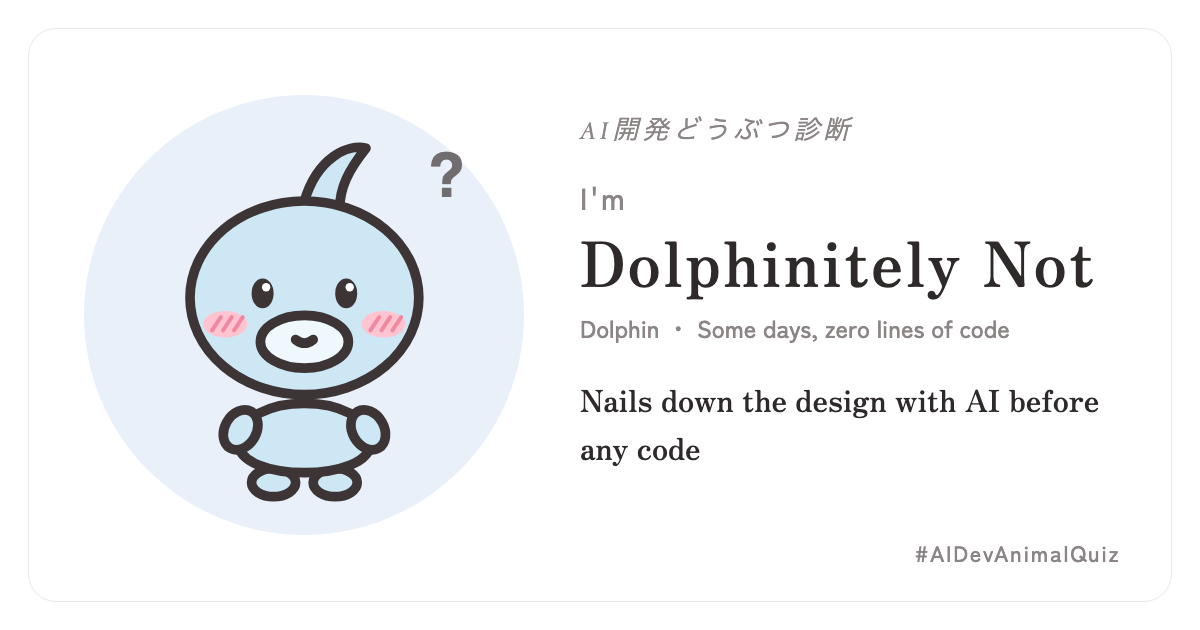
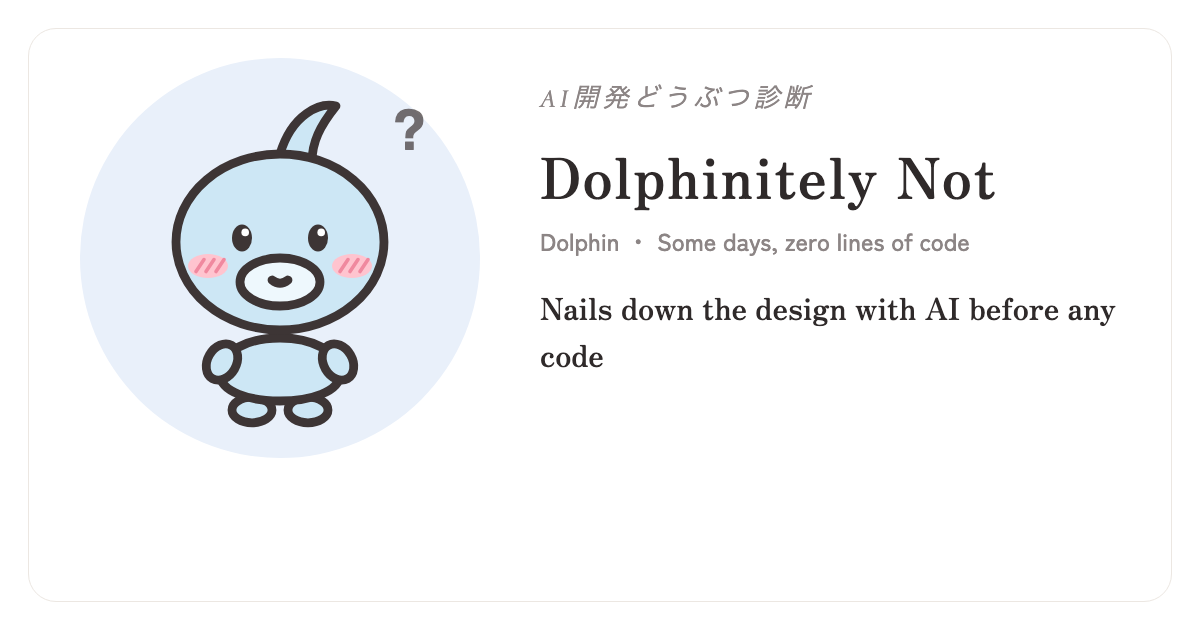
シェアは画像添付にし、カード画像から「わたしは」を外す

diff --git a/r/earth-steady.html b/r/earth-steady.html
@@ -5,20 +5,20 @@
 <meta name="viewport" content="width=device-width,initial-scale=1,viewport-fit=cover">
 <meta name="description" content="AIに書かせるほど、テストを厚くする。あなたは12匹のどの子？">
 <meta property="og:type" content="website">
-<meta property="og:title" content="わたしは「ダブルチェックマ」でした｜AI開発どうぶつ診断">
+<meta property="og:title" content="ダブルチェックマ｜AI開発どうぶつ診断">
 <meta property="og:description" content="AIに書かせるほど、テストを厚くする。あなたは12匹のどの子？">
 <meta property="og:image" content="https://ally-ak.github.io/ai-dev-animal/og/earth-steady-ja.png">
 <meta property="og:image:width" content="1200">
 <meta property="og:image:height" content="630">
 <meta property="og:url" content="https://ally-ak.github.io/ai-dev-animal/r/earth-steady.html">
 <meta name="twitter:card" content="summary_large_image">
-<meta name="twitter:title" content="わたしは「ダブルチェックマ」でした｜AI開発どうぶつ診断">
+<meta name="twitter:title" content="ダブルチェックマ｜AI開発どうぶつ診断">
 <meta name="twitter:description" content="AIに書かせるほど、テストを厚くする。あなたは12匹のどの子？">
 <meta name="twitter:image" content="https://ally-ak.github.io/ai-dev-animal/og/earth-steady-ja.png">
-<title>わたしは「ダブルチェックマ」でした｜AI開発どうぶつ診断</title>
+<title>ダブルチェックマ｜AI開発どうぶつ診断</title>
 <meta http-equiv="refresh" content="0; url=../?from=earth-steady&lang=ja">
 </head>
 <body>
-<p><a href="../?from=earth-steady&lang=ja">わたしは「ダブルチェックマ」でした｜AI開発どうぶつ診断</a></p>
+<p><a href="../?from=earth-steady&lang=ja">ダブルチェックマ｜AI開発どうぶつ診断</a></p>
 </body>
 </html>

diff --git a/r/water-pioneer.html b/r/water-pioneer.html
@@ -5,20 +5,20 @@
 <meta name="viewport" content="width=device-width,initial-scale=1,viewport-fit=cover">
 <meta name="description" content="モデルごとの「人柄」を味わって、乗り換える。あなたは12匹のどの子？">
 <meta property="og:type" content="website">
-<meta property="og:title" content="わたしは「モデルカエル」でした｜AI開発どうぶつ診断">
+<meta property="og:title" content="モデルカエル｜AI開発どうぶつ診断">
 <meta property="og:description" content="モデルごとの「人柄」を味わって、乗り換える。あなたは12匹のどの子？">
 <meta property="og:image" content="https://ally-ak.github.io/ai-dev-animal/og/water-pioneer-ja.png">
 <meta property="og:image:width" content="1200">
 <meta property="og:image:height" content="630">
 <meta property="og:url" content="https://ally-ak.github.io/ai-dev-animal/r/water-pioneer.html">
 <meta name="twitter:card" content="summary_large_image">
-<meta name="twitter:title" content="わたしは「モデルカエル」でした｜AI開発どうぶつ診断">
+<meta name="twitter:title" content="モデルカエル｜AI開発どうぶつ診断">
 <meta name="twitter:description" content="モデルごとの「人柄」を味わって、乗り換える。あなたは12匹のどの子？">
 <meta name="twitter:image" content="https://ally-ak.github.io/ai-dev-animal/og/water-pioneer-ja.png">
-<title>わたしは「モデルカエル」でした｜AI開発どうぶつ診断</title>
+<title>モデルカエル｜AI開発どうぶつ診断</title>
 <meta http-equiv="refresh" content="0; url=../?from=water-pioneer&lang=ja">
 </head>
 <body>
-<p><a href="../?from=water-pioneer&lang=ja">わたしは「モデルカエル」でした｜AI開発どうぶつ診断</a></p>
+<p><a href="../?from=water-pioneer&lang=ja">モデルカエル｜AI開発どうぶつ診断</a></p>
 </body>
 </html>

diff --git a/r/air-flex.html b/r/air-flex.html
@@ -5,20 +5,20 @@
 <meta name="viewport" content="width=device-width,initial-scale=1,viewport-fit=cover">
 <meta name="description" content="調べものはエージェントに、つなぐのは自分で。あなたは12匹のどの子？">
 <meta property="og:type" content="website">
-<meta property="og:title" content="わたしは「ネホリハホリス」でした｜AI開発どうぶつ診断">
+<meta property="og:title" content="ネホリハホリス｜AI開発どうぶつ診断">
 <meta property="og:description" content="調べものはエージェントに、つなぐのは自分で。あなたは12匹のどの子？">
 <meta property="og:image" content="https://ally-ak.github.io/ai-dev-animal/og/air-flex-ja.png">
 <meta property="og:image:width" content="1200">
 <meta property="og:image:height" content="630">
 <meta property="og:url" content="https://ally-ak.github.io/ai-dev-animal/r/air-flex.html">
 <meta name="twitter:card" content="summary_large_image">
-<meta name="twitter:title" content="わたしは「ネホリハホリス」でした｜AI開発どうぶつ診断">
+<meta name="twitter:title" content="ネホリハホリス｜AI開発どうぶつ診断">
 <meta name="twitter:description" content="調べものはエージェントに、つなぐのは自分で。あなたは12匹のどの子？">
 <meta name="twitter:image" content="https://ally-ak.github.io/ai-dev-animal/og/air-flex-ja.png">
-<title>わたしは「ネホリハホリス」でした｜AI開発どうぶつ診断</title>
+<title>ネホリハホリス｜AI開発どうぶつ診断</title>
 <meta http-equiv="refresh" content="0; url=../?from=air-flex&lang=ja">
 </head>
 <body>
-<p><a href="../?from=air-flex&lang=ja">わたしは「ネホリハホリス」でした｜AI開発どうぶつ診断</a></p>
+<p><a href="../?from=air-flex&lang=ja">ネホリハホリス｜AI開発どうぶつ診断</a></p>
 </body>
 </html>

diff --git a/r/fire-pioneer.html b/r/fire-pioneer.html
@@ -5,20 +5,20 @@
 <meta name="viewport" content="width=device-width,initial-scale=1,viewport-fit=cover">
 <meta name="description" content="新しいモデルは、出たその日に本番タスクで試す。あなたは12匹のどの子？">
 <meta property="og:type" content="website">
-<meta property="og:title" content="わたしは「トリアエズ」でした｜AI開発どうぶつ診断">
+<meta property="og:title" content="トリアエズ｜AI開発どうぶつ診断">
 <meta property="og:description" content="新しいモデルは、出たその日に本番タスクで試す。あなたは12匹のどの子？">
 <meta property="og:image" content="https://ally-ak.github.io/ai-dev-animal/og/fire-pioneer-ja.png">
 <meta property="og:image:width" content="1200">
 <meta property="og:image:height" content="630">
 <meta property="og:url" content="https://ally-ak.github.io/ai-dev-animal/r/fire-pioneer.html">
 <meta name="twitter:card" content="summary_large_image">
-<meta name="twitter:title" content="わたしは「トリアエズ」でした｜AI開発どうぶつ診断">
+<meta name="twitter:title" content="トリアエズ｜AI開発どうぶつ診断">
 <meta name="twitter:description" content="新しいモデルは、出たその日に本番タスクで試す。あなたは12匹のどの子？">
 <meta name="twitter:image" content="https://ally-ak.github.io/ai-dev-animal/og/fire-pioneer-ja.png">
-<title>わたしは「トリアエズ」でした｜AI開発どうぶつ診断</title>
+<title>トリアエズ｜AI開発どうぶつ診断</title>
 <meta http-equiv="refresh" content="0; url=../?from=fire-pioneer&lang=ja">
 </head>
 <body>
-<p><a href="../?from=fire-pioneer&lang=ja">わたしは「トリアエズ」でした｜AI開発どうぶつ診断</a></p>
+<p><a href="../?from=fire-pioneer&lang=ja">トリアエズ｜AI開発どうぶつ診断</a></p>
 </body>
 </html>

diff --git a/r/air-pioneer.html b/r/air-pioneer.html
@@ -5,20 +5,20 @@
 <meta name="viewport" content="width=device-width,initial-scale=1,viewport-fit=cover">
 <meta name="description" content="思いついたら、その場でプロトタイプ。あなたは12匹のどの子？">
 <meta property="og:type" content="website">
-<meta property="og:title" content="わたしは「ツクルダゾウ」でした｜AI開発どうぶつ診断">
+<meta property="og:title" content="ツクルダゾウ｜AI開発どうぶつ診断">
 <meta property="og:description" content="思いついたら、その場でプロトタイプ。あなたは12匹のどの子？">
 <meta property="og:image" content="https://ally-ak.github.io/ai-dev-animal/og/air-pioneer-ja.png">
 <meta property="og:image:width" content="1200">
 <meta property="og:image:height" content="630">
 <meta property="og:url" content="https://ally-ak.github.io/ai-dev-animal/r/air-pioneer.html">
 <meta name="twitter:card" content="summary_large_image">
-<meta name="twitter:title" content="わたしは「ツクルダゾウ」でした｜AI開発どうぶつ診断">
+<meta name="twitter:title" content="ツクルダゾウ｜AI開発どうぶつ診断">
 <meta name="twitter:description" content="思いついたら、その場でプロトタイプ。あなたは12匹のどの子？">
 <meta name="twitter:image" content="https://ally-ak.github.io/ai-dev-animal/og/air-pioneer-ja.png">
-<title>わたしは「ツクルダゾウ」でした｜AI開発どうぶつ診断</title>
+<title>ツクルダゾウ｜AI開発どうぶつ診断</title>
 <meta http-equiv="refresh" content="0; url=../?from=air-pioneer&lang=ja">
 </head>
 <body>
-<p><a href="../?from=air-pioneer&lang=ja">わたしは「ツクルダゾウ」でした｜AI開発どうぶつ診断</a></p>
+<p><a href="../?from=air-pioneer&lang=ja">ツクルダゾウ｜AI開発どうぶつ診断</a></p>
 </body>
 </html>

diff --git a/r/earth-pioneer.html b/r/earth-pioneer.html
@@ -5,20 +5,20 @@
 <meta name="viewport" content="width=device-width,initial-scale=1,viewport-fit=cover">
 <meta name="description" content="新しいモデルは、まず自分の意地悪問題で試す。あなたは12匹のどの子？">
 <meta property="og:type" content="website">
-<meta property="og:title" content="わたしは「バグカモ」でした｜AI開発どうぶつ診断">
+<meta property="og:title" content="バグカモ｜AI開発どうぶつ診断">
 <meta property="og:description" content="新しいモデルは、まず自分の意地悪問題で試す。あなたは12匹のどの子？">
 <meta property="og:image" content="https://ally-ak.github.io/ai-dev-animal/og/earth-pioneer-ja.png">
 <meta property="og:image:width" content="1200">
 <meta property="og:image:height" content="630">
 <meta property="og:url" content="https://ally-ak.github.io/ai-dev-animal/r/earth-pioneer.html">
 <meta name="twitter:card" content="summary_large_image">
-<meta name="twitter:title" content="わたしは「バグカモ」でした｜AI開発どうぶつ診断">
+<meta name="twitter:title" content="バグカモ｜AI開発どうぶつ診断">
 <meta name="twitter:description" content="新しいモデルは、まず自分の意地悪問題で試す。あなたは12匹のどの子？">
 <meta name="twitter:image" content="https://ally-ak.github.io/ai-dev-animal/og/earth-pioneer-ja.png">
-<title>わたしは「バグカモ」でした｜AI開発どうぶつ診断</title>
+<title>バグカモ｜AI開発どうぶつ診断</title>
 <meta http-equiv="refresh" content="0; url=../?from=earth-pioneer&lang=ja">
 </head>
 <body>
-<p><a href="../?from=earth-pioneer&lang=ja">わたしは「バグカモ」でした｜AI開発どうぶつ診断</a></p>
+<p><a href="../?from=earth-pioneer&lang=ja">バグカモ｜AI開発どうぶつ診断</a></p>
 </body>
 </html>

diff --git a/r/water-steady.html b/r/water-steady.html
@@ -5,20 +5,20 @@
 <meta name="viewport" content="width=device-width,initial-scale=1,viewport-fit=cover">
 <meta name="description" content="いつものAIと、しゃべりながらペアプロ。あなたは12匹のどの子？">
 <meta property="og:type" content="website">
-<meta property="og:title" content="わたしは「アリガトウ」でした｜AI開発どうぶつ診断">
+<meta property="og:title" content="アリガトウ｜AI開発どうぶつ診断">
 <meta property="og:description" content="いつものAIと、しゃべりながらペアプロ。あなたは12匹のどの子？">
 <meta property="og:image" content="https://ally-ak.github.io/ai-dev-animal/og/water-steady-ja.png">
 <meta property="og:image:width" content="1200">
 <meta property="og:image:height" content="630">
 <meta property="og:url" content="https://ally-ak.github.io/ai-dev-animal/r/water-steady.html">
 <meta name="twitter:card" content="summary_large_image">
-<meta name="twitter:title" content="わたしは「アリガトウ」でした｜AI開発どうぶつ診断">
+<meta name="twitter:title" content="アリガトウ｜AI開発どうぶつ診断">
 <meta name="twitter:description" content="いつものAIと、しゃべりながらペアプロ。あなたは12匹のどの子？">
 <meta name="twitter:image" content="https://ally-ak.github.io/ai-dev-animal/og/water-steady-ja.png">
-<title>わたしは「アリガトウ」でした｜AI開発どうぶつ診断</title>
+<title>アリガトウ｜AI開発どうぶつ診断</title>
 <meta http-equiv="refresh" content="0; url=../?from=water-steady&lang=ja">
 </head>
 <body>
-<p><a href="../?from=water-steady&lang=ja">わたしは「アリガトウ」でした｜AI開発どうぶつ診断</a></p>
+<p><a href="../?from=water-steady&lang=ja">アリガトウ｜AI開発どうぶつ診断</a></p>
 </body>
 </html>

diff --git a/r/water-flex.html b/r/water-flex.html
@@ -5,20 +5,20 @@
 <meta name="viewport" content="width=device-width,initial-scale=1,viewport-fit=cover">
 <meta name="description" content="その日の調子で、相棒を選んでおまかせ。あなたは12匹のどの子？">
 <meta property="og:type" content="website">
-<meta property="og:title" content="わたしは「オマカセミ」でした｜AI開発どうぶつ診断">
+<meta property="og:title" content="オマカセミ｜AI開発どうぶつ診断">
 <meta property="og:description" content="その日の調子で、相棒を選んでおまかせ。あなたは12匹のどの子？">
 <meta property="og:image" content="https://ally-ak.github.io/ai-dev-animal/og/water-flex-ja.png">
 <meta property="og:image:width" content="1200">
 <meta property="og:image:height" content="630">
 <meta property="og:url" content="https://ally-ak.github.io/ai-dev-animal/r/water-flex.html">
 <meta name="twitter:card" content="summary_large_image">
-<meta name="twitter:title" content="わたしは「オマカセミ」でした｜AI開発どうぶつ診断">
+<meta name="twitter:title" content="オマカセミ｜AI開発どうぶつ診断">
 <meta name="twitter:description" content="その日の調子で、相棒を選んでおまかせ。あなたは12匹のどの子？">
 <meta name="twitter:image" content="https://ally-ak.github.io/ai-dev-animal/og/water-flex-ja.png">
-<title>わたしは「オマカセミ」でした｜AI開発どうぶつ診断</title>
+<title>オマカセミ｜AI開発どうぶつ診断</title>
 <meta http-equiv="refresh" content="0; url=../?from=water-flex&lang=ja">
 </head>
 <body>
-<p><a href="../?from=water-flex&lang=ja">わたしは「オマカセミ」でした｜AI開発どうぶつ診断</a></p>
+<p><a href="../?from=water-flex&lang=ja">オマカセミ｜AI開発どうぶつ診断</a></p>
 </body>
 </html>

diff --git a/r/air-steady.html b/r/air-steady.html
@@ -5,20 +5,20 @@
 <meta name="viewport" content="width=device-width,initial-scale=1,viewport-fit=cover">
 <meta name="description" content="コードを書く前に、AIと設計を詰める。あなたは12匹のどの子？">
 <meta property="og:type" content="website">
-<meta property="og:title" content="わたしは「ソレイルカ」でした｜AI開発どうぶつ診断">
+<meta property="og:title" content="ソレイルカ｜AI開発どうぶつ診断">
 <meta property="og:description" content="コードを書く前に、AIと設計を詰める。あなたは12匹のどの子？">
 <meta property="og:image" content="https://ally-ak.github.io/ai-dev-animal/og/air-steady-ja.png">
 <meta property="og:image:width" content="1200">
 <meta property="og:image:height" content="630">
 <meta property="og:url" content="https://ally-ak.github.io/ai-dev-animal/r/air-steady.html">
 <meta name="twitter:card" content="summary_large_image">
-<meta name="twitter:title" content="わたしは「ソレイルカ」でした｜AI開発どうぶつ診断">
+<meta name="twitter:title" content="ソレイルカ｜AI開発どうぶつ診断">
 <meta name="twitter:description" content="コードを書く前に、AIと設計を詰める。あなたは12匹のどの子？">
 <meta name="twitter:image" content="https://ally-ak.github.io/ai-dev-animal/og/air-steady-ja.png">
-<title>わたしは「ソレイルカ」でした｜AI開発どうぶつ診断</title>
+<title>ソレイルカ｜AI開発どうぶつ診断</title>
 <meta http-equiv="refresh" content="0; url=../?from=air-steady&lang=ja">
 </head>
 <body>
-<p><a href="../?from=air-steady&lang=ja">わたしは「ソレイルカ」でした｜AI開発どうぶつ診断</a></p>
+<p><a href="../?from=air-steady&lang=ja">ソレイルカ｜AI開発どうぶつ診断</a></p>
 </body>
 </html>

diff --git a/r/fire-steady.html b/r/fire-steady.html
@@ -5,20 +5,20 @@
 <meta name="viewport" content="width=device-width,initial-scale=1,viewport-fit=cover">
 <meta name="description" content="自分の型で、毎日ゴリゴリ片づける。あなたは12匹のどの子？">
 <meta property="og:type" content="website">
-<meta property="og:title" content="わたしは「ゴリゴリラ」でした｜AI開発どうぶつ診断">
+<meta property="og:title" content="ゴリゴリラ｜AI開発どうぶつ診断">
 <meta property="og:description" content="自分の型で、毎日ゴリゴリ片づける。あなたは12匹のどの子？">
 <meta property="og:image" content="https://ally-ak.github.io/ai-dev-animal/og/fire-steady-ja.png">
 <meta property="og:image:width" content="1200">
 <meta property="og:image:height" content="630">
 <meta property="og:url" content="https://ally-ak.github.io/ai-dev-animal/r/fire-steady.html">
 <meta name="twitter:card" content="summary_large_image">
-<meta name="twitter:title" content="わたしは「ゴリゴリラ」でした｜AI開発どうぶつ診断">
+<meta name="twitter:title" content="ゴリゴリラ｜AI開発どうぶつ診断">
 <meta name="twitter:description" content="自分の型で、毎日ゴリゴリ片づける。あなたは12匹のどの子？">
 <meta name="twitter:image" content="https://ally-ak.github.io/ai-dev-animal/og/fire-steady-ja.png">
-<title>わたしは「ゴリゴリラ」でした｜AI開発どうぶつ診断</title>
+<title>ゴリゴリラ｜AI開発どうぶつ診断</title>
 <meta http-equiv="refresh" content="0; url=../?from=fire-steady&lang=ja">
 </head>
 <body>
-<p><a href="../?from=fire-steady&lang=ja">わたしは「ゴリゴリラ」でした｜AI開発どうぶつ診断</a></p>
+<p><a href="../?from=fire-steady&lang=ja">ゴリゴリラ｜AI開発どうぶつ診断</a></p>
 </body>
 </html>

diff --git a/r/fire-flex.html b/r/fire-flex.html
@@ -5,20 +5,20 @@
 <meta name="viewport" content="width=device-width,initial-scale=1,viewport-fit=cover">
 <meta name="description" content="8本の腕で、エージェントを同時に走らせる。あなたは12匹のどの子？">
 <meta property="og:type" content="website">
-<meta property="og:title" content="わたしは「デキタコ」でした｜AI開発どうぶつ診断">
+<meta property="og:title" content="デキタコ｜AI開発どうぶつ診断">
 <meta property="og:description" content="8本の腕で、エージェントを同時に走らせる。あなたは12匹のどの子？">
 <meta property="og:image" content="https://ally-ak.github.io/ai-dev-animal/og/fire-flex-ja.png">
 <meta property="og:image:width" content="1200">
 <meta property="og:image:height" content="630">
 <meta property="og:url" content="https://ally-ak.github.io/ai-dev-animal/r/fire-flex.html">
 <meta name="twitter:card" content="summary_large_image">
-<meta name="twitter:title" content="わたしは「デキタコ」でした｜AI開発どうぶつ診断">
+<meta name="twitter:title" content="デキタコ｜AI開発どうぶつ診断">
 <meta name="twitter:description" content="8本の腕で、エージェントを同時に走らせる。あなたは12匹のどの子？">
 <meta name="twitter:image" content="https://ally-ak.github.io/ai-dev-animal/og/fire-flex-ja.png">
-<title>わたしは「デキタコ」でした｜AI開発どうぶつ診断</title>
+<title>デキタコ｜AI開発どうぶつ診断</title>
 <meta http-equiv="refresh" content="0; url=../?from=fire-flex&lang=ja">
 </head>
 <body>
-<p><a href="../?from=fire-flex&lang=ja">わたしは「デキタコ」でした｜AI開発どうぶつ診断</a></p>
+<p><a href="../?from=fire-flex&lang=ja">デキタコ｜AI開発どうぶつ診断</a></p>
 </body>
 </html>

diff --git a/r/earth-flex.html b/r/earth-flex.html
@@ -5,20 +5,20 @@
 <meta name="viewport" content="width=device-width,initial-scale=1,viewport-fit=cover">
 <meta name="description" content="書くAIと、見るAIを分ける。あなたは12匹のどの子？">
 <meta property="og:type" content="website">
-<meta property="og:title" content="わたしは「タシカニ」でした｜AI開発どうぶつ診断">
+<meta property="og:title" content="タシカニ｜AI開発どうぶつ診断">
 <meta property="og:description" content="書くAIと、見るAIを分ける。あなたは12匹のどの子？">
 <meta property="og:image" content="https://ally-ak.github.io/ai-dev-animal/og/earth-flex-ja.png">
 <meta property="og:image:width" content="1200">
 <meta property="og:image:height" content="630">
 <meta property="og:url" content="https://ally-ak.github.io/ai-dev-animal/r/earth-flex.html">
 <meta name="twitter:card" content="summary_large_image">
-<meta name="twitter:title" content="わたしは「タシカニ」でした｜AI開発どうぶつ診断">
+<meta name="twitter:title" content="タシカニ｜AI開発どうぶつ診断">
 <meta name="twitter:description" content="書くAIと、見るAIを分ける。あなたは12匹のどの子？">
 <meta name="twitter:image" content="https://ally-ak.github.io/ai-dev-animal/og/earth-flex-ja.png">
-<title>わたしは「タシカニ」でした｜AI開発どうぶつ診断</title>
+<title>タシカニ｜AI開発どうぶつ診断</title>
 <meta http-equiv="refresh" content="0; url=../?from=earth-flex&lang=ja">
 </head>
 <body>
-<p><a href="../?from=earth-flex&lang=ja">わたしは「タシカニ」でした｜AI開発どうぶつ診断</a></p>
+<p><a href="../?from=earth-flex&lang=ja">タシカニ｜AI開発どうぶつ診断</a></p>
 </body>
 </html>
